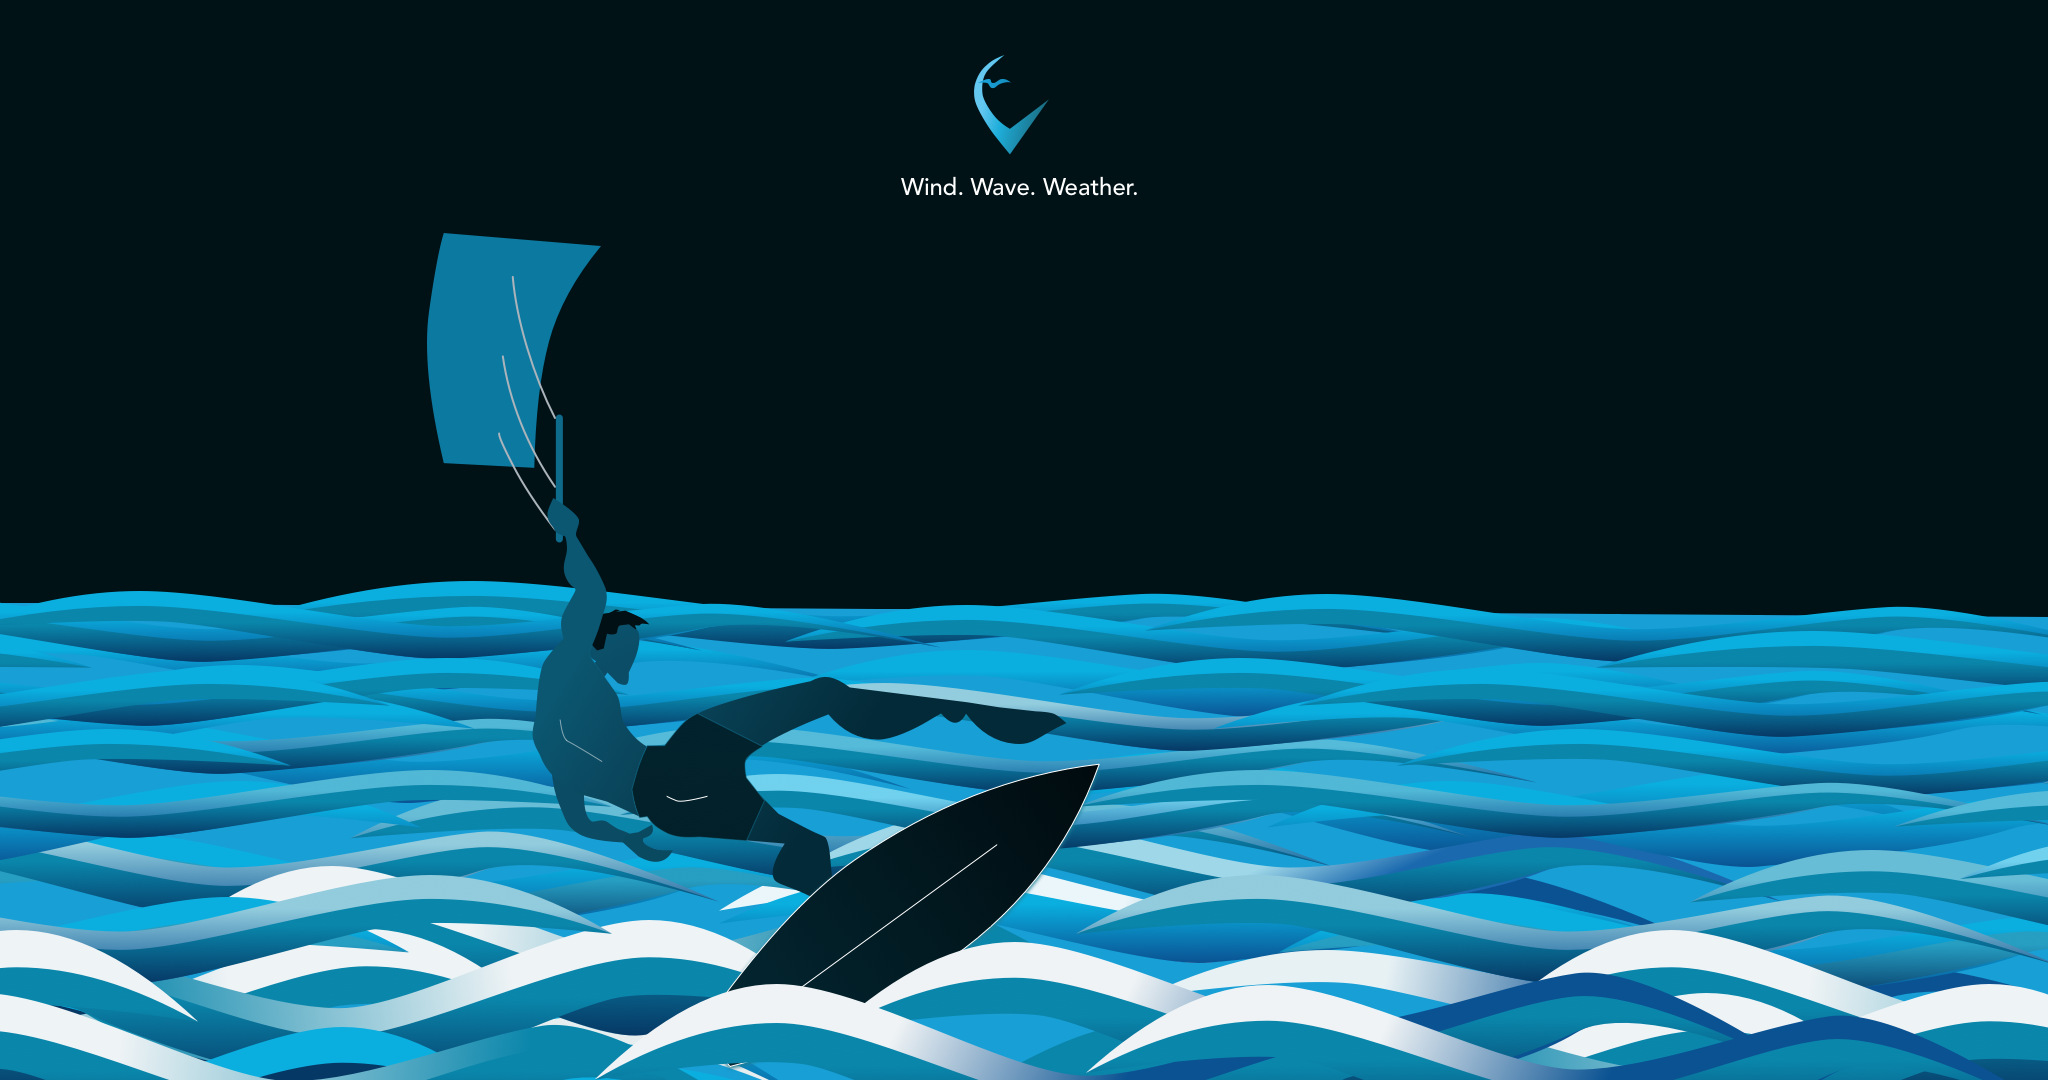
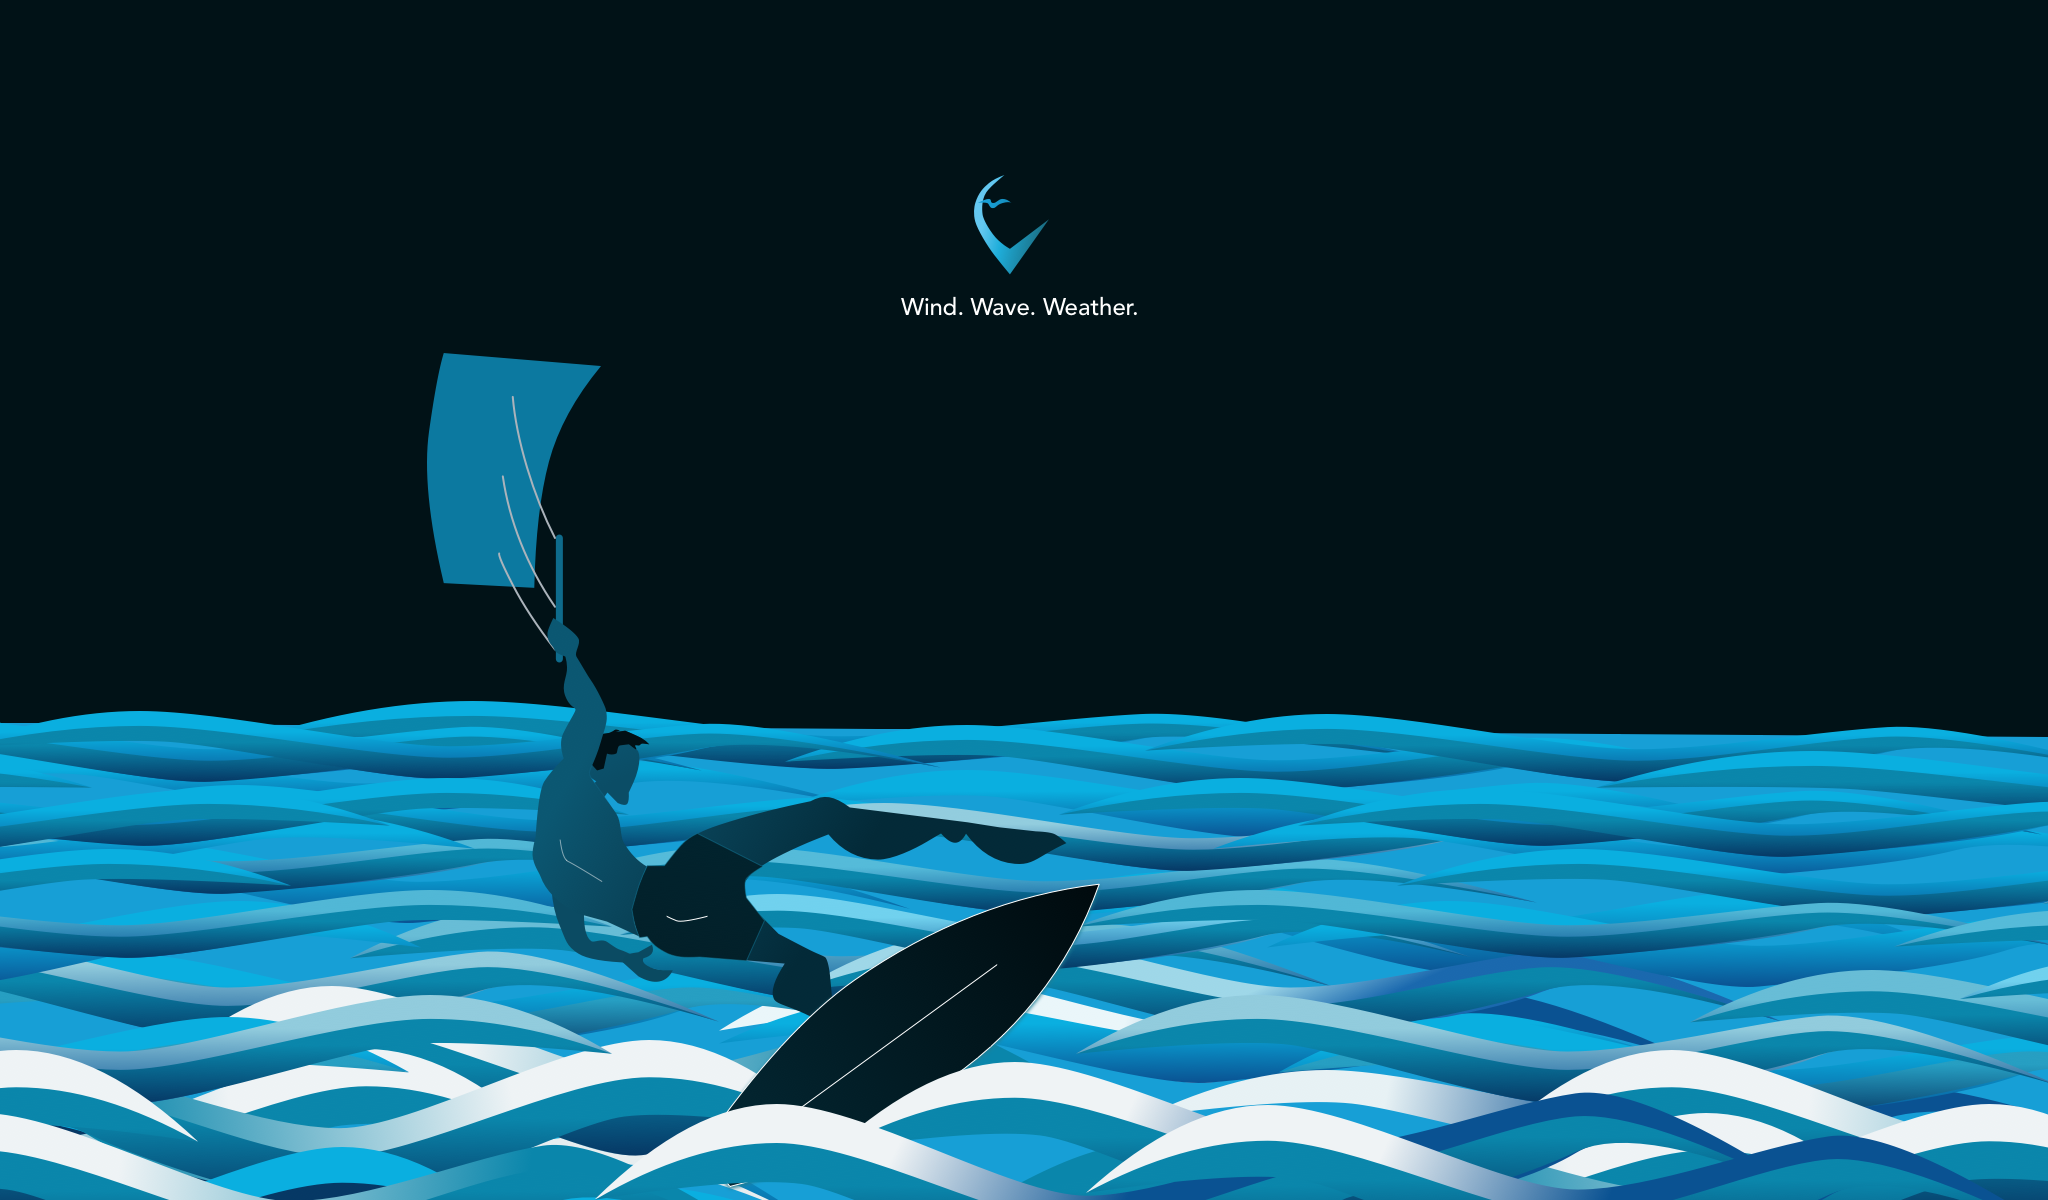
Changed images on work page

Changed region(s): [[0.0, 0.2139, 1.0, 1.0], [0.4375, 0.0611, 0.5625, 0.275], [0.0938, 0.9778, 0.125, 1.0]]

diff --git a/vela_portfolio.html b/vela_portfolio.html
@@ -12,6 +12,7 @@
         <link href="https://fonts.googleapis.com/css2?family=Montserrat:wght@300;400;700&display=swap" rel="stylesheet">  
         <link href="https://vjs.zencdn.net/7.8.3/video-js.css" rel="stylesheet" />
         <link href="https://unpkg.com/@videojs/themes@1/dist/fantasy/index.css" rel="stylesheet">
+        <link rel="stylesheet" href="https://cdnjs.cloudflare.com/ajax/libs/font-awesome/4.7.0/css/font-awesome.min.css">
     </head>
 
 
@@ -26,7 +27,7 @@
                     <nav class="menu" id="myTopmenu">
                         <a href="index.html">Home</a>
                         <a href="about.html">About</a>
-                        <a href="fi.html">Work</a>
+                        <a href="fitted.html">Work</a>
                         <a href="#index_footer">Contact</a>
                         <a href="#" class="icon" onclick="myFunction()">
                         <i class="fa fa-bars"></i>
@@ -40,9 +41,9 @@
         
         <!--Hero-->
         <main class="portfolio_header">
-            <div id="containerfull">
+            <div class="containerfull">
 
-                <a href="https://projects.invisionapp.com/prototype/Fitted-ck7vex1x0000efk01f8suit50/play/5d98deb3" target="_blank"><img src="img/vela/vela_hero." alt="Fitted" ></a>
+                <a href="https://projects.invisionapp.com/prototype/Fitted-ck7vex1x0000efk01f8suit50/play/5d98deb3" target="_blank"><img src="img/vela/vela_hero.png" alt="Fitted" ></a>
             </div>   
 
       
@@ -299,5 +300,6 @@
     
 
     </body>
+    <script src="js/main.js"></script>
     <script src="https://vjs.zencdn.net/7.8.3/video.js"></script>
 </html>    

diff --git a/fitted.html b/fitted.html
@@ -10,7 +10,8 @@
         <link rel="stylesheet" type="text/css" href="https://cdnjs.cloudflare.com/ajax/libs/normalize/8.0.0/normalize.min.css">
         <link rel="stylesheet" type="text/css" href="css/style.css">
         <link rel="shortcut icon" type="image/x-icon" href="myicon.ico"/>
-        <link href="https://fonts.googleapis.com/css2?family=Montserrat:wght@300;400;700&display=swap" rel="stylesheet">        <!--<link rel="icon" type="image/png" href="./favicon.png">-->
+        <link href="https://fonts.googleapis.com/css2?family=Montserrat:wght@300;400;700&display=swap" rel="stylesheet"> 
+         <link rel="stylesheet" href="https://cdnjs.cloudflare.com/ajax/libs/font-awesome/4.7.0/css/font-awesome.min.css">       <!--<link rel="icon" type="image/png" href="./favicon.png">-->
     </head>
 
 
@@ -91,7 +92,7 @@
                     </div>     
 
                     <div class="work_image">
-                        <img src="img/fitted/fitted_work.png" alt="Fitted" ></a>
+                        <img src="img/vela/work_vela.png" alt="Fitted" ></a>
                     </div><!--Image-->
                 </div>                 
             </section>
@@ -107,4 +108,5 @@
        
 
     </body>
+     <script src="js/main.js"></script>
 </html>

diff --git a/css/style.css b/css/style.css
@@ -413,9 +413,10 @@ body.work{
 
 #work1_vela{
     height:auto;
-    background-color: #2da8f0;
+    background-color: #011217;
     padding-bottom:5rem;
 }
+
 
 
 #work1_fitted .container{
@@ -427,14 +428,16 @@ body.work{
 
 #work1_vela .container{
 
-    background-color: #2da8f0; 
+    background-color: #011217; 
     display:flex;
     height:80%;
     align-self: flex-end;
 
 
 }
-
+.icon{
+    z-index:100000;
+}
 #work1_fitted .describe, #work1_vela .describe {
     width: 50%;
     
@@ -457,7 +460,7 @@ body.work{
     display: flex;
     flex-direction: column;
     justify-content: center;
-    width: 45%;
+    width: 60%;
     height: auto;
   
 }
@@ -474,11 +477,14 @@ body.work{
 /*Vela*/
 
 #vela_work_header .container{
-    background-color:#2da8f0;
+    background-color:#011217;
     width:100%;
     height:15vh;
 }
 
+body.portfolio.vela{
+    background-color: #011217;
+}
 /*Fitted*/
 #fitted_work_header .container{
     background-color: #EB560C;
@@ -494,7 +500,7 @@ body.portfolio{
     padding-top:100px;
 }
 
-#containerfull img{
+.containerfull img{
     width:100%;
 }
 

diff --git a/fitted_portfolio.html b/fitted_portfolio.html
@@ -9,7 +9,8 @@
         <link rel="stylesheet" type="text/css" href="https://cdnjs.cloudflare.com/ajax/libs/normalize/8.0.0/normalize.min.css">
         <link rel="stylesheet" type="text/css" href="css/style.css">
         <link rel="shortcut icon" type="image/x-icon" href="myicon.ico"/>
-        <link href="https://fonts.googleapis.com/css2?family=Montserrat:wght@300;400;700&display=swap" rel="stylesheet">  
+        <link href="https://fonts.googleapis.com/css2?family=Montserrat:wght@300;400;700&display=swap" rel="stylesheet"> 
+        <link rel="stylesheet" href="https://cdnjs.cloudflare.com/ajax/libs/font-awesome/4.7.0/css/font-awesome.min.css"> 
         <link href="https://vjs.zencdn.net/7.8.3/video-js.css" rel="stylesheet" />
         <link href="https://unpkg.com/@videojs/themes@1/dist/fantasy/index.css" rel="stylesheet">
     </head>
@@ -299,5 +300,6 @@
     
 
     </body>
+    <script src="js/main.js"></script>
     <script src="https://vjs.zencdn.net/7.8.3/video.js"></script>
 </html>    
